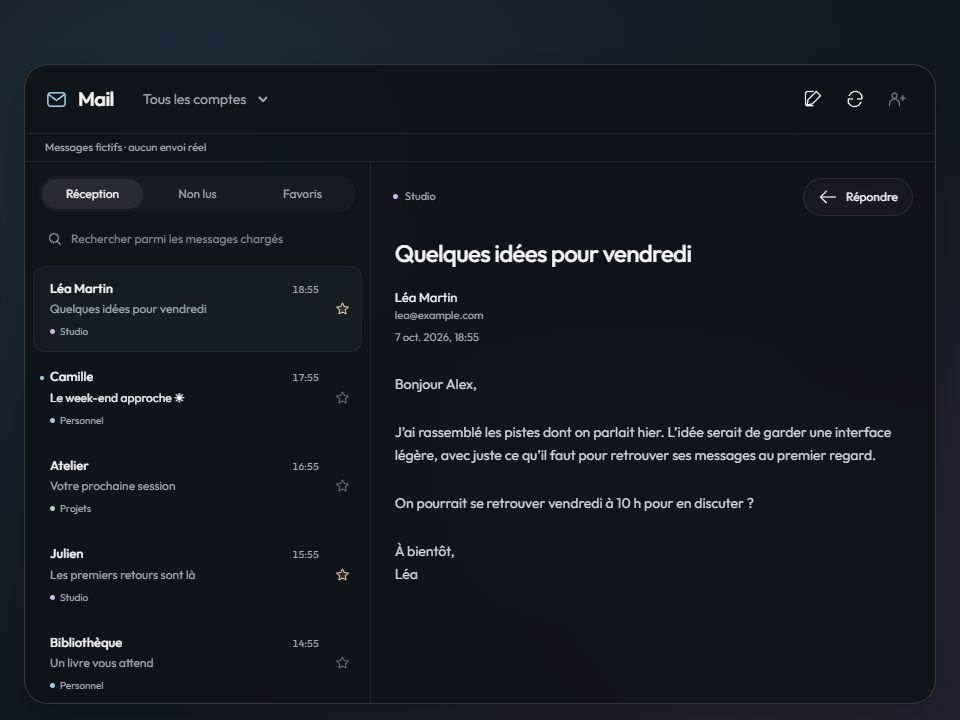
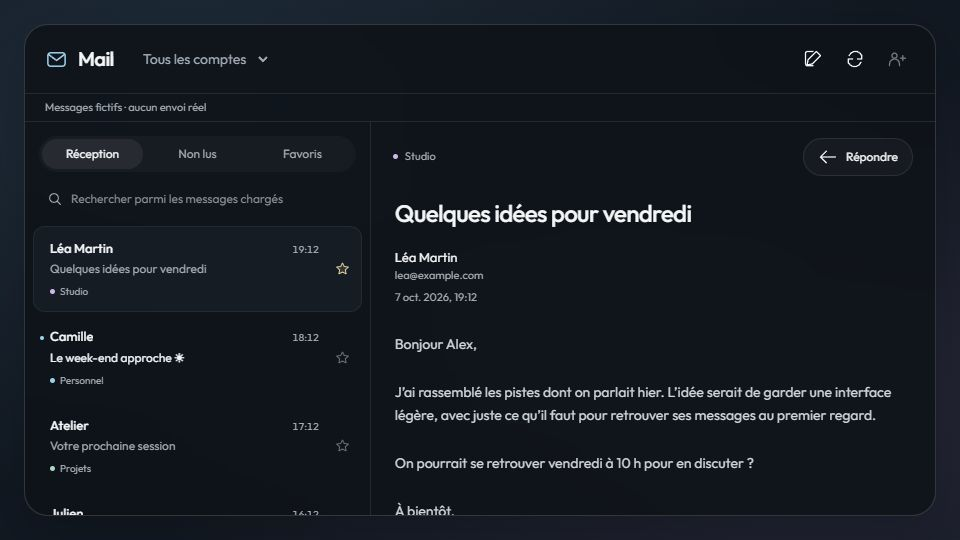
fix: align Mail bootstrap with native runtime deadline

diff --git a/native/src/main.ts b/native/src/main.ts
@@ -4,12 +4,14 @@ import { FramedTransport } from './transport.js'
 import { PhpEngine, runtimePaths } from './engine.js'
 import { Session } from './session.js'
 import { Vault } from './vault.js'
+import { ActionError } from '../../shared/protocol.js'
 
 console.log = console.info = console.debug = console.warn = console.error = () => {}
 const transport = new FramedTransport(process.stdin, process.stdout)
 let session: Session | undefined
+let opening: Promise<Session> | undefined
 let closing = false
-async function close() { if (closing) return; closing = true; await session?.close(); await transport.flush() }
+async function close() { if (closing) return; closing = true; await opening?.catch(() => {}); await session?.close(); await transport.flush() }
 process.once('SIGTERM', () => { void close().finally(() => process.exit()) })
 process.once('SIGINT', () => { void close().finally(() => process.exit()) })
 async function main() {
@@ -18,18 +20,25 @@ async function main() {
       const frame = raw as { type?: string; v?: number; addonId?: string; scratchDirectory?: string; payload?: unknown }
       if (frame.v !== transport.version) throw new Error('protocol')
       if (frame.type === 'init') {
-        if (session || typeof frame.addonId !== 'string' || !frame.addonId || frame.addonId.length > 200 || typeof frame.scratchDirectory !== 'string' || process.platform !== 'win32' || !process.env.LOCALAPPDATA) throw new Error('initialization')
+        if (opening || typeof frame.addonId !== 'string' || !frame.addonId || frame.addonId.length > 200 || typeof frame.scratchDirectory !== 'string' || process.platform !== 'win32' || !process.env.LOCALAPPDATA) throw new Error('initialization')
         const layerKey = basename(frame.scratchDirectory)
         if (!/^[a-zA-Z0-9_-]{1,128}$/.test(layerKey)) throw new Error('scope')
         const addonKey = createHash('sha256').update(frame.addonId).digest('hex')
         const directory = join(process.env.LOCALAPPDATA, 'MyWallpaper', 'Addons', 'Mail', addonKey, layerKey)
-        const vault = new Vault(directory)
-        const paths = await runtimePaths(directory)
-        session = new Session(vault, [new PhpEngine(paths), new PhpEngine(paths)])
-        await session.open()
+        // Ready means the process-v2 channel can receive RPCs. The host's
+        // two-second handshake must not wait for cold extraction or DPAPI.
         await transport.send({ type: 'ready', v: transport.version })
-      } else if (!session) throw new Error('not-initialized')
-      else if (frame.type === 'message') void session.handle(frame.payload).then(payload => { if (payload && !closing) return transport.send({ type: 'message', v: transport.version, target: 'broadcast', payload }) }).catch(() => {})
+        opening = (async () => {
+          const paths = await runtimePaths(directory)
+          session = new Session(new Vault(directory), [new PhpEngine(paths), new PhpEngine(paths)])
+          await session.open(); return session
+        })()
+        void opening.catch(() => {})
+      } else if (!opening) throw new Error('not-initialized')
+      else if (frame.type === 'message') void opening.then(value => value.handle(frame.payload)).then(payload => { if (payload && !closing) return transport.send({ type: 'message', v: transport.version, target: 'broadcast', payload }) }).catch(error => {
+        const command = frame.payload as { kind?: string; requestId?: string } | undefined
+        if (!closing && command?.kind === 'mail.command' && typeof command.requestId === 'string' && command.requestId.length <= 80) return transport.send({ type: 'message', v: transport.version, target: 'broadcast', payload: { kind: 'mail.result', requestId: command.requestId, ok: false, error: error instanceof ActionError ? error.code : 'runtime-unavailable' } })
+      }).catch(() => {})
       else if (frame.type === 'settings') continue
       else if (frame.type === 'shutdown') break
       else throw new Error('protocol')

diff --git a/src/i18n.ts b/src/i18n.ts
@@ -2,8 +2,8 @@ export const en = {
   title: 'Mail', allAccounts: 'All accounts', compose: 'New message', refresh: 'Refresh', accounts: 'Accounts',
   inbox: 'Inbox', unread: 'Unread', starred: 'Starred', search: 'Search loaded messages',
   addAccount: 'Add an account', intro: 'All your inboxes, together.', introDetail: 'Connect an IMAP account to read and reply from your desktop.',
-  local: 'Credentials stay on this computer.', setup: 'Connect your first account', demo: 'Preview', demoDetail: 'Fictional messages · nothing is sent',
-  loading: 'Opening your inbox…', refreshing: 'Refreshing…', noMail: 'You’re all caught up.', noResults: 'No matching messages.',
+  local: 'Credentials stay on this computer.', setup: 'Connect your first account', demoDetail: 'Fictional messages · nothing is sent',
+  loading: 'Opening your inbox…', noMail: 'You’re all caught up.', noResults: 'No matching messages.',
   choose: 'Choose a message', chooseDetail: 'Your inbox is on the left.', more: 'Load older messages', back: 'Back to inbox',
   star: 'Star message', unstar: 'Remove star', reply: 'Reply', from: 'From', to: 'To', subject: 'Subject', body: 'Message',
   send: 'Send', sending: 'Sending…', sent: 'Message sent.', cancel: 'Cancel', close: 'Close',
@@ -36,8 +36,8 @@ export const fr: typeof en = {
   title: 'Mail', allAccounts: 'Tous les comptes', compose: 'Nouveau message', refresh: 'Actualiser', accounts: 'Comptes',
   inbox: 'Réception', unread: 'Non lus', starred: 'Favoris', search: 'Rechercher parmi les messages chargés',
   addAccount: 'Ajouter un compte', intro: 'Vos boîtes mail, réunies.', introDetail: 'Connectez un compte IMAP pour lire et répondre depuis votre bureau.',
-  local: 'Les identifiants restent sur cet ordinateur.', setup: 'Connecter mon premier compte', demo: 'Aperçu', demoDetail: 'Messages fictifs · aucun envoi réel',
-  loading: 'Ouverture de votre boîte…', refreshing: 'Actualisation…', noMail: 'Vous êtes à jour.', noResults: 'Aucun message correspondant.',
+  local: 'Les identifiants restent sur cet ordinateur.', setup: 'Connecter mon premier compte', demoDetail: 'Messages fictifs · aucun envoi réel',
+  loading: 'Ouverture de votre boîte…', noMail: 'Vous êtes à jour.', noResults: 'Aucun message correspondant.',
   choose: 'Choisissez un message', chooseDetail: 'Votre boîte de réception est à gauche.', more: 'Charger les messages précédents', back: 'Retour à la réception',
   star: 'Ajouter aux favoris', unstar: 'Retirer des favoris', reply: 'Répondre', from: 'De', to: 'À', subject: 'Objet', body: 'Message',
   send: 'Envoyer', sending: 'Envoi…', sent: 'Message envoyé.', cancel: 'Annuler', close: 'Fermer',

diff --git a/native/test/package.test.ts b/native/test/package.test.ts
@@ -32,8 +32,12 @@ for (const version of [4, 5]) test(`packaged companion process-v2 v${version}: i
   function send(frame: unknown) { const bytes = Buffer.from(JSON.stringify(frame)); const header = Buffer.alloc(4); header.writeUInt32LE(bytes.length); child.stdin.write(Buffer.concat([header, bytes])) }
   const timeout = setTimeout(() => { pending?.reject(new Error('Packaged companion timeout')); child.kill() }, 45_000)
   t.after(async () => { clearTimeout(timeout); child.kill(); await new Promise<void>(resolve => { if (child.exitCode !== null || child.signalCode !== null) resolve(); else child.once('exit', () => resolve()) }); await rm(directory, { recursive: true, force: true }) })
+  const started = performance.now()
   send({ type: 'init', v: version, addonId, scratchDirectory: join(base, '.build', 'package-fixture') })
   assert.deepEqual(await next(), { type: 'ready', v: version })
+  const initializationMs = performance.now() - started
+  assert.ok(initializationMs < 2_000, 'The process-v2 channel must be ready within the host handshake deadline')
+  t.diagnostic(`Cold packaged initialization: ${Math.round(initializationMs)} ms`)
   send({ type: 'message', v: version, payload: { kind: 'mail.command', requestId: 'snapshot', action: 'snapshot', input: {} } })
   assert.deepEqual((await next()).payload, { kind: 'mail.result', requestId: 'snapshot', ok: true, result: { accounts: [] } })
   send({ type: 'message', v: version, payload: { kind: 'mail.command', requestId: 'php-probe', action: 'add-account', input: { name: 'Fixture', email: 'fixture@example.com', username: 'fixture', password: 'disposable-test-value', imapHost: '127.0.0.1', imapPort: 1 } } })

diff --git a/src/preview.ts b/src/preview.ts
@@ -5,7 +5,7 @@ import { createWidget } from './widget'
 const params = new URLSearchParams(location.search)
 const demo = params.get('demo') === '1'
 document.documentElement.lang = navigator.language.startsWith('fr') ? 'fr' : 'en'
-const style = document.createElement('style'); style.textContent = `html,body{margin:0;min-height:100%;background:#141e2b}body{display:grid;place-items:center;min-height:100dvh;padding:24px;background:radial-gradient(ellipse at 20% 20%,#32495d66,transparent 65%),radial-gradient(ellipse at 85% 75%,#44385366,transparent 60%),#111821}#preview{width:min(920px,100%);height:min(640px,calc(100dvh - 48px))}body[data-narrow] #preview{width:min(360px,100%)}@media(max-width:480px){body{padding:12px}#preview{height:calc(100dvh - 24px)}}`; document.head.append(style)
+const style = document.createElement('style'); style.textContent = `html,body{box-sizing:border-box;margin:0;min-height:100%;background:#141e2b}body{display:grid;place-items:center;min-height:100dvh;padding:24px;background:radial-gradient(ellipse at 20% 20%,#32495d66,transparent 65%),radial-gradient(ellipse at 85% 75%,#44385366,transparent 60%),#111821}#preview{width:min(920px,100%);height:min(640px,calc(100dvh - 48px))}body[data-narrow] #preview{width:min(360px,100%)}@media(max-width:480px){body{padding:12px}#preview{height:calc(100dvh - 24px)}}`; document.head.append(style)
 if (params.get('wide') !== '1') document.body.dataset.narrow = ''
 const root = document.querySelector<HTMLElement>('#preview')!
 let socket: WebSocket | undefined

diff --git a/README.md b/README.md
@@ -27,7 +27,7 @@ Prerequisites for **building**: Node 22+, pnpm 10.33, npm. The pinned Windows PH
 ```sh
 pnpm install --frozen-lockfile
 pnpm build
-node native/build.mjs
+node native/build.mjs --target x86_64-pc-windows-msvc
 mywallpaper generate
 mywallpaper check
 mywallpaper dev
